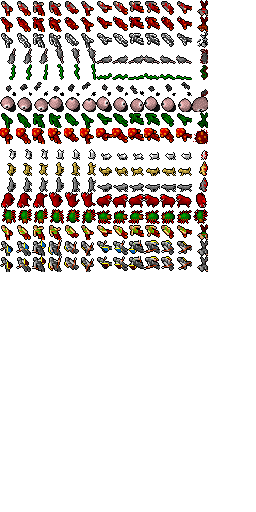
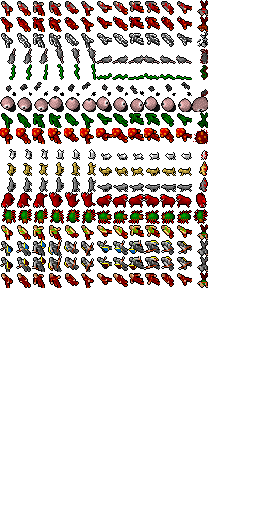
Add new apperance for Iolo

Changed region(s): [[0.0, 0.5312, 0.75, 0.5625], [0.7812, 0.5312, 0.8125, 0.5625]]

diff --git a/src/js/data/Appearances.js b/src/js/data/Appearances.js
@@ -108,6 +108,14 @@ const Appearances = [
 				dead: 12
 			},
 			{
+				id: 'iolo',
+				u: [3+272,4+272,5+272,4+272],
+				d: [0+272,1+272,2+272,1+272],
+				l: [9+272,10+272,11+272,10+272],
+				r: [6+272,7+272,8+272,7+272],
+				dead: 12
+			},
+			{
 				id: 'soldier',
 				u: [3+240,4+240,5+240,4+240],
 				d: [0+240,1+240,2+240,1+240],

diff --git a/src/js/data/MobTypes.js b/src/js/data/MobTypes.js
@@ -35,7 +35,7 @@ const MobTypes = [
 	},
 	{
 		id: 'iolo',
-		appearance: 'man2',
+		appearance: 'iolo',
 		name: 'Iolo',
 		hp: 20,
 		damage: 3,
